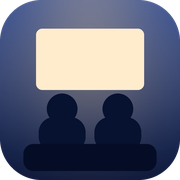
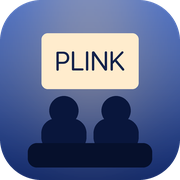
brand: надпись PLINK на экране внутри иконки
Просьба владельца — добавить «Plink» на экран в иконке. Это единственное
место, где текст в иконке оправдан: он часть сюжета (то, что показывает
«телевизор»), а не подпись поверх знака.

Надпись размеро-зависимая. Правило «в иконке не должно быть текста» остаётся
в силе для мелких размеров: ниже 120 px буквы превращаются в грязь и пачкают
то самое световое пятно, ради которого знак работает. Поэтому 1024/180/120 px
идут с надписью, 60 px и мельче — с чистым экраном (вариант A-couch-plain).
На лендинге так же: favicon 16 и 32 px без надписи, 48 px с ней.

Заодно исправлены две вещи, которые видно только на живом домашнем экране, а
в исходнике 1024 px не заметить:

  • Синий был слишком тёмным. iOS накладывает на иконки своё затемнение, и
    прежний градиент читался тёмным пятном рядом с системными иконками.
    Осветлён, средняя яркость 97 → 112.

  • Экран прижимался к краю: маска-суперэллипс iOS срезает углы, и надпись на
    широком экране обрезалась. Экран сужен с 0.60 до 0.54 ширины, диван тоже
    отодвинут от краёв.

Отдельно исправлен .gitignore: шаблон `Icon?` без якоря съедал каталог
docs/icons целиком, поэтому направления иконки молча не попадали в
репозиторий — отчёт по брифу #2 ссылался на файлы, которых в git не было.
Теперь `/Icon?` (файл иконки папки Finder лежит в корне), а все 16 рендеров
трёх направлений добавлены.

Проверено на живом домашнем экране симулятора: надпись читается и не
обрезается. Сборка iOS зелёная, 364 теста проходят, лендинг собирается.

diff --git a/ios-2/scripts/make_app_icons.py b/ios-2/scripts/make_app_icons.py
@@ -12,7 +12,7 @@
     а не чёрная (текущая иконка на тёмном экране пропадает).
 """
 
-from PIL import Image, ImageDraw, ImageFilter
+from PIL import Image, ImageDraw, ImageFilter, ImageFont
 import pathlib
 import math
 
@@ -56,13 +56,17 @@ def radial_glow(size, center, radius, color, strength=1.0):
 #    Тёплый свет против холодного синего: сцена читается как «смотрим
 #    вместе» без единой буквы.
 # ─────────────────────────────────────────────────────────────────────────
-def direction_couch():
-    img = vertical_gradient(S, (26, 62, 150), ACCENT_NIGHT)
+def direction_couch(with_wordmark: bool = False):
+    # Синий заметно светлее, чем в первой версии: на домашнем экране iOS
+    # затемняет иконку своим наложением, и прежний градиент (26,62,150 → почти
+    # чёрный) читался тёмным пятном рядом с системными иконками.
+    img = vertical_gradient(S, (46, 96, 208), (14, 38, 104))
     d = ImageDraw.Draw(img)
 
-    # Экран — источник света, крупный прямоугольник в верхней трети.
-    sw, sh = int(S * 0.60), int(S * 0.34)
-    sx, sy = (S - sw) // 2, int(S * 0.16)
+    # Экран — источник света. Ширина 0.54, а не 0.60: маска-суперэллипс iOS
+    # срезает углы, и широкий экран прижимался к самому краю иконки.
+    sw, sh = int(S * 0.54), int(S * 0.31)
+    sx, sy = (S - sw) // 2, int(S * 0.185)
 
     tint, mask = radial_glow(S, (S // 2, sy + sh // 2), int(S * 0.42), WARM, 0.85)
     img = Image.composite(tint, img, mask.point(lambda v: int(v * 0.55)))
@@ -70,23 +74,62 @@ def direction_couch():
 
     d.rounded_rectangle([sx, sy, sx + sw, sy + sh], radius=int(S * 0.035), fill=WARM_HOT)
 
-    # Два силуэта: круг-голова + плечи. Заливка цветом фона — фигуры
+    # Надпись PLINK на экране: то, что показывает «телевизор» в иконке.
+    # Единственное место, где текст в иконке оправдан, — он часть сюжета, а не
+    # подпись поверх знака. Ниже 120 px буквы всё равно нечитаемы, поэтому в
+    # мелких размерах надпись не рисуется вовсе (см. emit): вместо мутной каши
+    # там остаётся чистое световое пятно.
+    d = ImageDraw.Draw(img)
+    if with_wordmark:
+        label = "PLINK"
+        target_w = int(sw * 0.74)
+        font = None
+        for path in (
+            "/System/Library/Fonts/SFNSRounded.ttf",
+            "/System/Library/Fonts/SFNS.ttf",
+            "/System/Library/Fonts/HelveticaNeue.ttc",
+        ):
+            if not pathlib.Path(path).exists():
+                continue
+            # Подбираем кегль под ширину экрана, а не задаём числом: у разных
+            # шрифтов метрики отличаются, и «на глаз» надпись уехала бы.
+            for size in range(int(sh * 0.9), 10, -2):
+                try:
+                    cand = ImageFont.truetype(path, size)
+                except OSError:
+                    break
+                box = d.textbbox((0, 0), label, font=cand, stroke_width=0)
+                if box[2] - box[0] <= target_w:
+                    font = cand
+                    break
+            if font:
+                break
+
+        if font:
+            box = d.textbbox((0, 0), label, font=font)
+            tx = sx + (sw - (box[2] - box[0])) // 2 - box[0]
+            ty = sy + (sh - (box[3] - box[1])) // 2 - box[1]
+            # Тёмная надпись на светлом экране: свет остаётся светом.
+            d.text((tx, ty), label, font=font, fill=(18, 34, 74))
+
+    # Два силуэта: круг-голова + плечи. Заливка тёмно-синим — фигуры
     # «вырезаны» из света, поэтому силуэт остаётся читаемым в 60 px.
-    body = (7, 17, 48)
-    head_r = int(S * 0.085)
-    for cx in (int(S * 0.345), int(S * 0.655)):
-        cy = int(S * 0.605)
+    body = (9, 22, 60)
+    head_r = int(S * 0.082)
+    for cx in (int(S * 0.355), int(S * 0.645)):
+        cy = int(S * 0.615)
         d.ellipse([cx - head_r, cy - head_r, cx + head_r, cy + head_r], fill=body)
-        bw, bh = int(S * 0.26), int(S * 0.24)
+        bw, bh = int(S * 0.25), int(S * 0.23)
         d.rounded_rectangle(
             [cx - bw // 2, cy + int(head_r * 0.55), cx + bw // 2, cy + bh],
-            radius=int(S * 0.085), fill=body,
+            radius=int(S * 0.082), fill=body,
         )
 
-    # Диван — одна плотная полоса внизу, без ножек и деталей.
+    # Диван — одна плотная полоса внизу, без ножек и деталей. Не доходит до
+    # краёв: иначе маска iOS срезает её концы.
     d.rounded_rectangle(
-        [int(S * 0.13), int(S * 0.80), int(S * 0.87), int(S * 0.95)],
-        radius=int(S * 0.055), fill=(5, 13, 38),
+        [int(S * 0.155), int(S * 0.795), int(S * 0.845), int(S * 0.93)],
+        radius=int(S * 0.05), fill=(6, 16, 44),
     )
     return img
 
@@ -193,18 +236,32 @@ def direction_play():
     return Image.composite(fill, img, tri)
 
 
-def emit(img, name):
-    """1024 — исходник, остальные — то, что реально видит человек."""
+def emit(img, name, small_img=None, wordmark_min_px=120):
+    """1024 — исходник, остальные — то, что реально видит человек.
+
+    `small_img` — вариант без надписи для мелких размеров. Уменьшать картинку
+    с текстом до 60 px нельзя: буквы превращаются в грязь и пачкают световое
+    пятно, ради которого иконка и работает. Ниже `wordmark_min_px` берём
+    версию без надписи.
+    """
     img = img.convert("RGB")
     img.save(OUT / f"{name}-1024.png")
+    fallback = (small_img or img).convert("RGB")
     for px in (180, 120, 60):
-        img.resize((px, px), Image.LANCZOS).save(OUT / f"{name}-{px}.png")
+        source = img if px >= wordmark_min_px else fallback
+        source.resize((px, px), Image.LANCZOS).save(OUT / f"{name}-{px}.png")
     return img
 
 
 if __name__ == "__main__":
+    # A: на экране внутри иконки — надпись PLINK (крупные размеры) и чистый
+    # свет (мелкие). Оба варианта складываем рядом, чтобы было что сравнить.
+    plain = direction_couch(with_wordmark=False)
+    emit(direction_couch(with_wordmark=True), "A-couch", small_img=plain)
+    emit(plain, "A-couch-plain")
+    print("rendered A-couch (+plain)")
+
     for fn, name in (
-        (direction_couch, "A-couch"),
         (direction_link, "B-link"),
         (direction_play, "C-play"),
     ):

diff --git a/landing/scripts/make_brand_assets.py b/landing/scripts/make_brand_assets.py
@@ -17,6 +17,10 @@ SOURCE = (
     HERE.parent.parent
     / "ios-2/Plink/Resources/Assets.xcassets/AppIcon.appiconset/AppIcon-1024.png"
 )
+# Вариант без надписи PLINK на экране. Ниже ~32 px буквы превращаются в грязь и
+# пачкают световое пятно, ради которого знак и работает, поэтому мелкие
+# favicon берутся отсюда.
+SOURCE_PLAIN = HERE.parent.parent / "ios-2/docs/icons/A-couch-plain-1024.png"
 
 VELVET = (10, 13, 20)
 
@@ -50,19 +54,20 @@ def load_font(size):
 
 def main():
     src = Image.open(SOURCE).convert("RGB")
+    plain = Image.open(SOURCE_PLAIN).convert("RGB") if SOURCE_PLAIN.exists() else src
 
-    # Favicon: 16 px — это ~8 различимых пикселей, поэтому берём ту же
-    # картинку, но без скругления на самых мелких (углы съедают силуэт).
+    # Favicon: 16 px — это ~8 различимых пикселей. Надпись там нечитаема, поэтому
+    # до 32 px включительно берём вариант без неё, а 48 px уже её держит.
     for px in (16, 32, 48):
-        icon = src.resize((px, px), Image.LANCZOS)
-        icon.save(PUBLIC / f"favicon-{px}x{px}.png")
+        source = src if px >= 48 else plain
+        source.resize((px, px), Image.LANCZOS).save(PUBLIC / f"favicon-{px}x{px}.png")
 
     rounded(src, 0.23).resize((180, 180), Image.LANCZOS).save(
         PUBLIC / "apple-touch-icon.png"
     )
 
     # .ico с тремя размерами внутри — старые браузеры берут из него.
-    src.resize((48, 48), Image.LANCZOS).save(
+    plain.resize((48, 48), Image.LANCZOS).save(
         PUBLIC / "favicon.ico", sizes=[(16, 16), (32, 32), (48, 48)]
     )
 

diff --git a/ios-2/docs/BRIEF2_REPORT.md b/ios-2/docs/BRIEF2_REPORT.md
@@ -148,6 +148,35 @@ UX-практик стриминга (FastPix, Fora Soft, Net Solutions, Eleken,
 (`LaunchBackground.colorset`), favicon, apple-touch-icon и OG-картинке
 лендинга — `landing/scripts/make_brand_assets.py` собирает их из иконки.
 
+### Надпись PLINK на экране внутри иконки
+
+Добавлена по просьбе владельца. Это единственное место, где текст в иконке
+оправдан: он часть сюжета — то, что показывает «телевизор», — а не подпись
+поверх знака.
+
+Правило общего вида «в иконке не должно быть текста» остаётся в силе, поэтому
+надпись **размеро-зависимая**:
+
+| Размер | Что рисуется |
+|---|---|
+| 1024, 180, 120 px | Экран с надписью PLINK |
+| 60 px и мельче | Чистое световое пятно без надписи |
+
+Ниже 120 px буквы превращаются в грязь и пачкают тот самый свет, ради которого
+знак работает, поэтому `emit()` в `make_app_icons.py` для мелких размеров берёт
+вариант `A-couch-plain`. То же правило на лендинге: favicon 16 и 32 px — без
+надписи, 48 px — с ней.
+
+Заодно исправлены две вещи, которые стали видны только на живом домашнем
+экране (в исходнике 1024 px их не заметить):
+
+- **Синий был слишком тёмным.** iOS накладывает на иконки собственное
+  затемнение, и прежний градиент читался тёмным пятном рядом с системными
+  иконками. Осветлён: `(46,96,208) → (14,38,104)`, средняя яркость 97 → 112.
+- **Экран прижимался к краю.** Маска-суперэллипс iOS срезает углы, и надпись
+  на широком экране (0.60 ширины) обрезалась. Экран сужен до 0.54, диван тоже
+  не доходит до краёв.
+
 Ограничение, о котором стоит знать: в 16 px (favicon) фигуры сливаются в
 тёмную массу, читается только светящийся экран. Для favicon это приемлемо,
 для иконки приложения минимальный размер — 60 px, там всё различимо.
